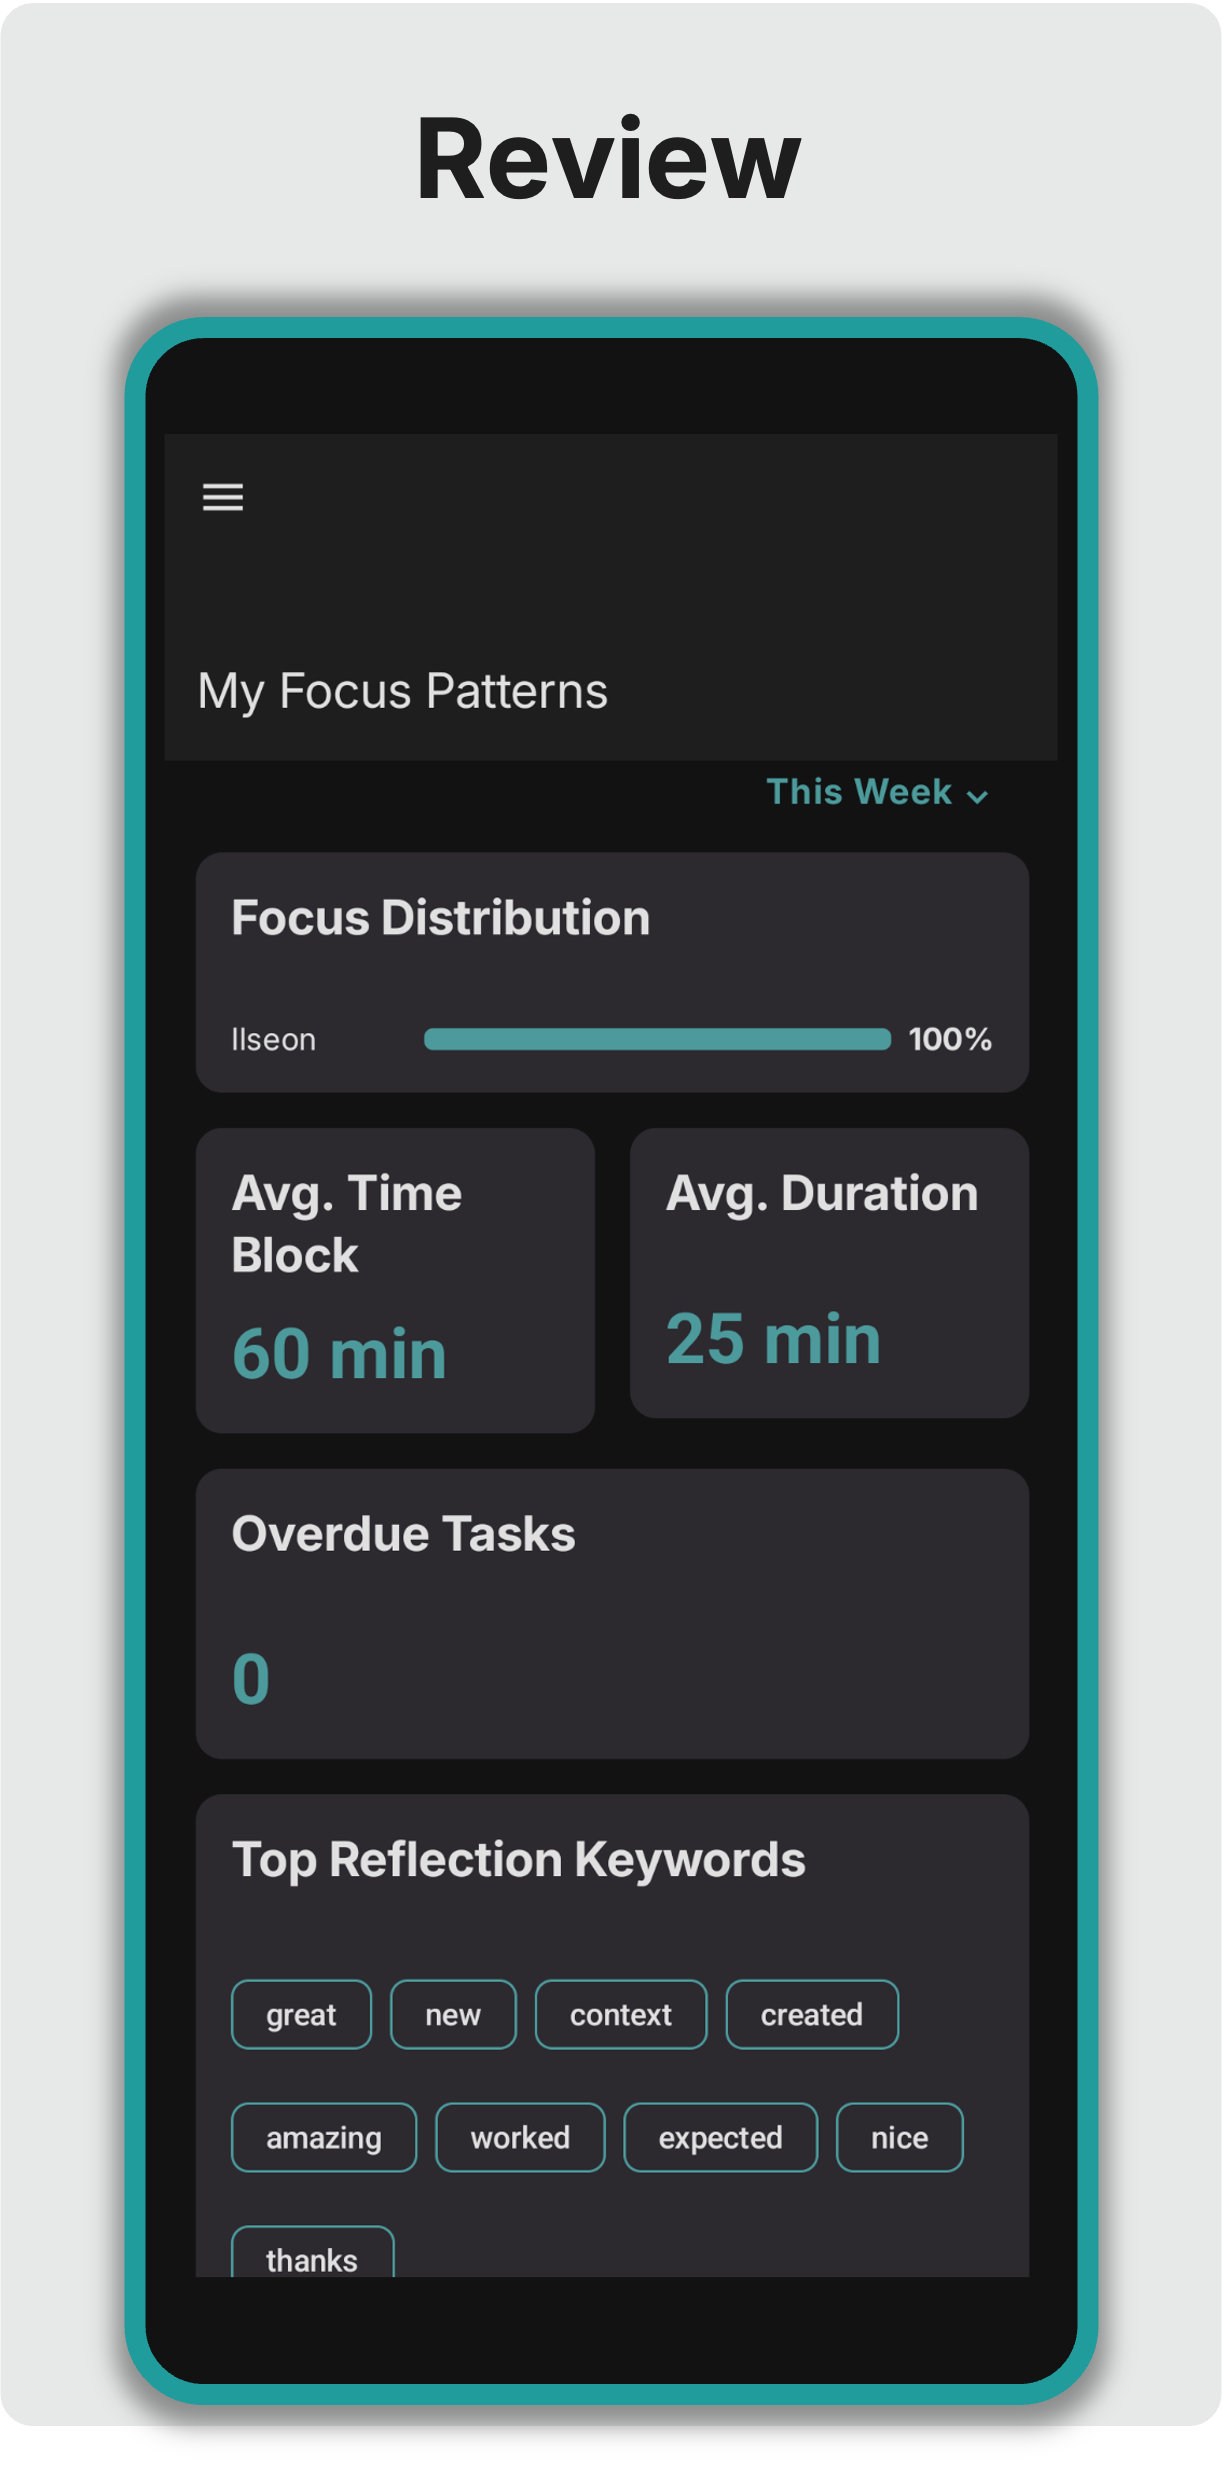
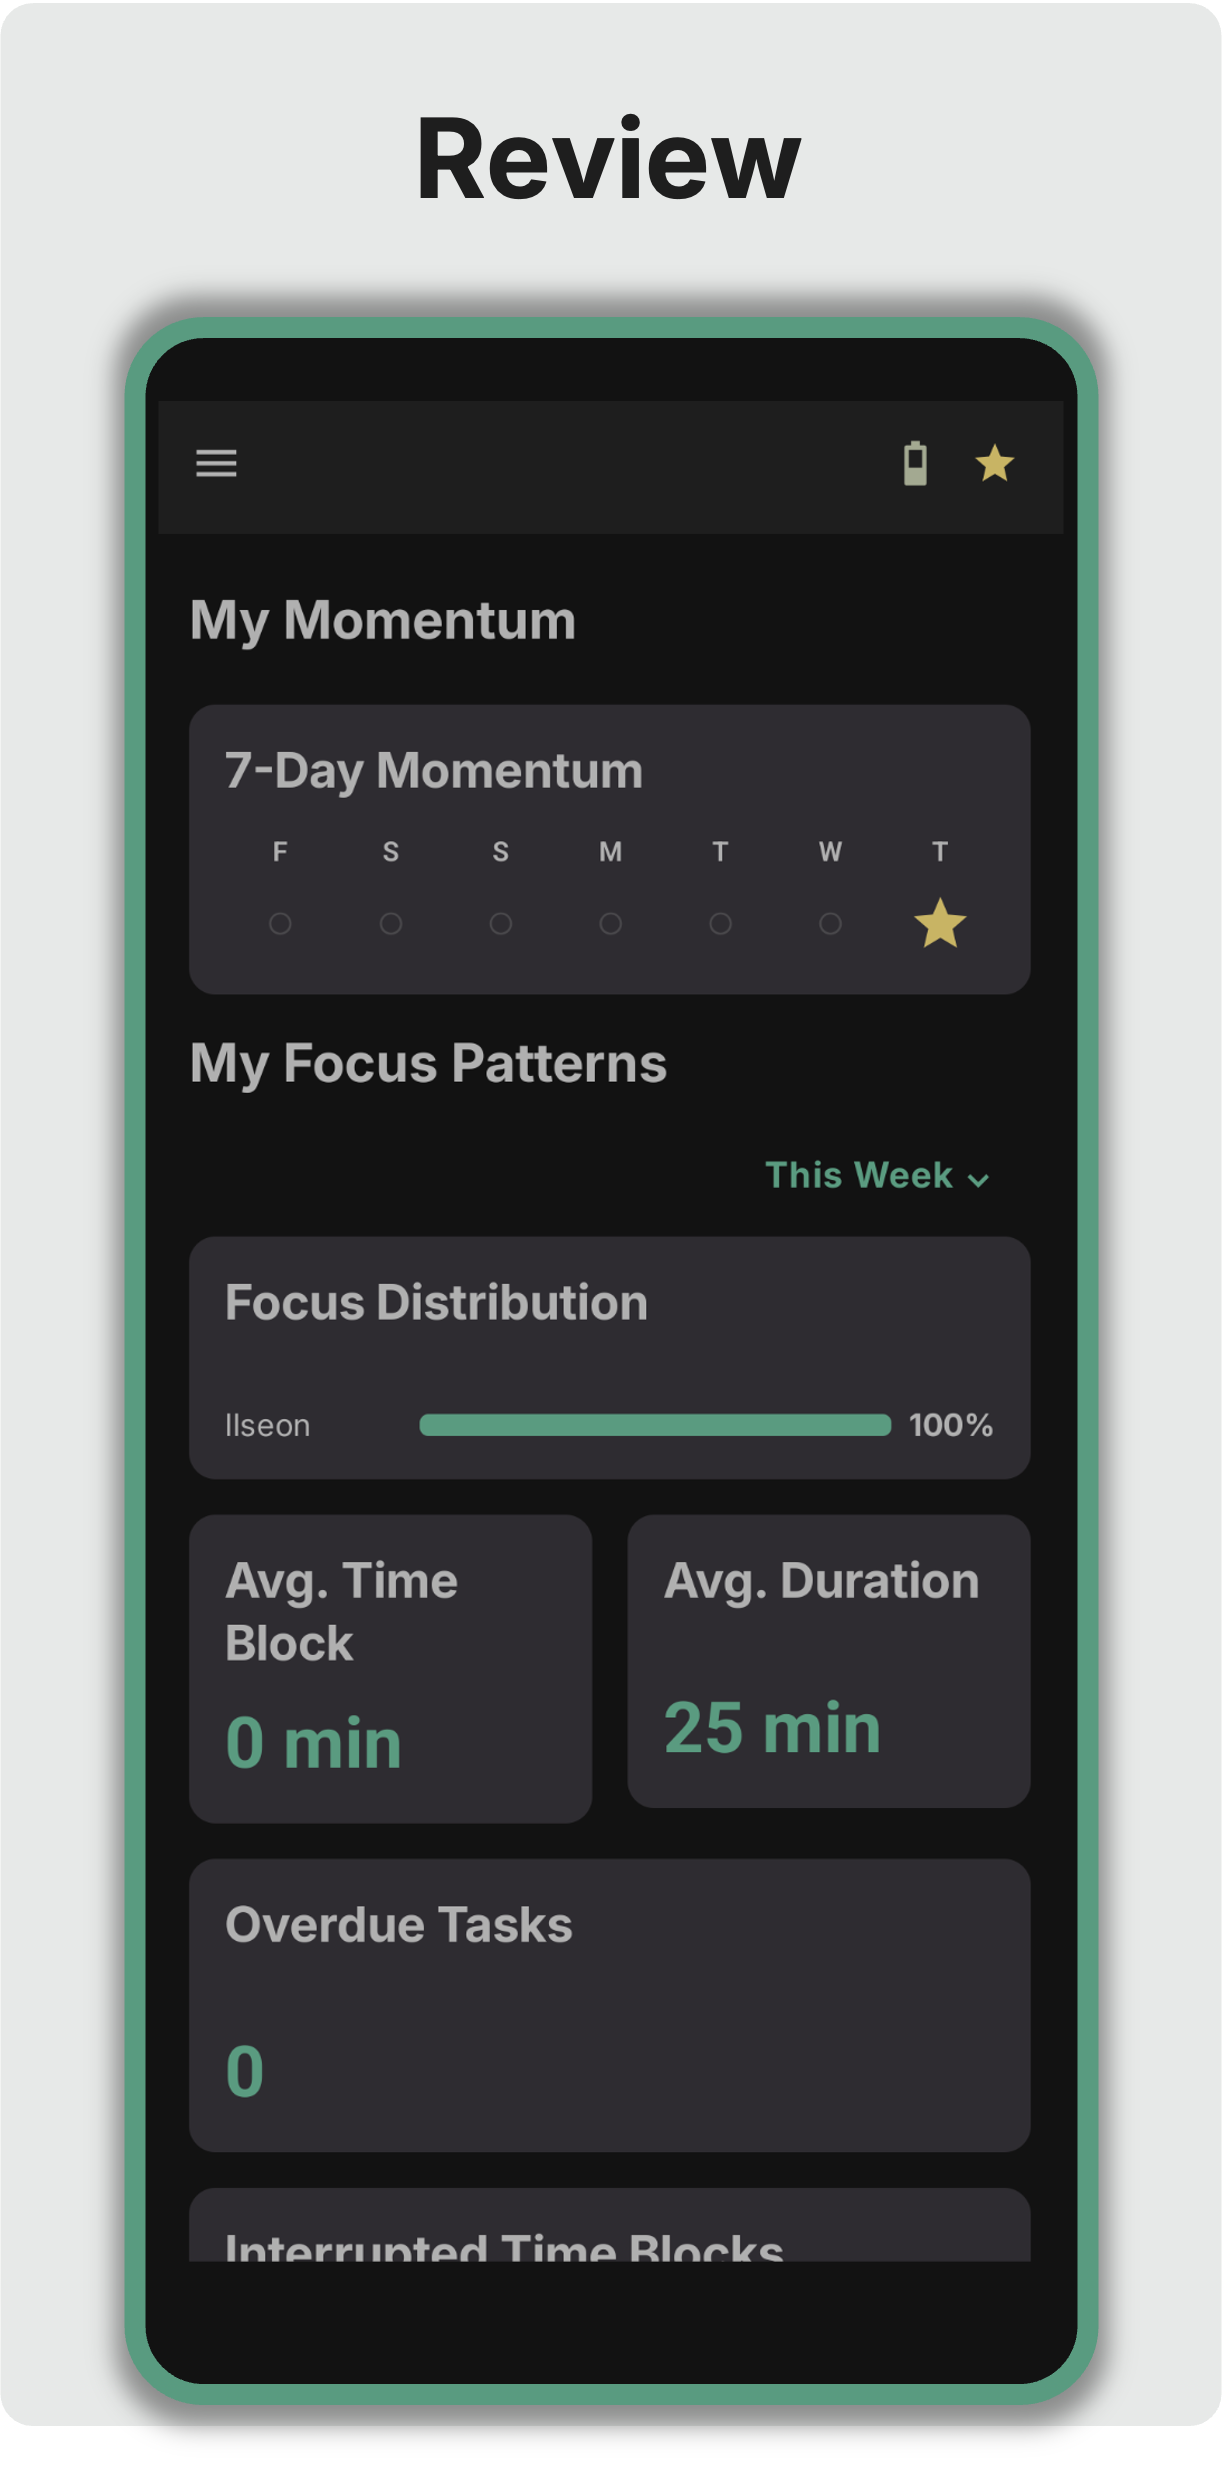
feat: update widget theme and new screenshots

Changed region(s): [[0.0932, 0.1249, 0.9011, 0.9996], [0.7457, 0.1874, 0.7768, 0.2187]]

diff --git a/README.md b/README.md
@@ -64,9 +64,9 @@ Ilseon is 100% **open source**, built for the community.
 
 ### Screenshots
 
-|                    Capture                     |                     Focus                      |                    Reflect                    |                     Review                      |                     Idea Inbox                      |                    Voice Inbox                     |
-|:----------------------------------------------:|:----------------------------------------------:|:---------------------------------------------:|:-----------------------------------------------:|:---------------------------------------------------:|:--------------------------------------------------:|
-| ![Capture](./images/ilseon-screenshot-PS1.png) | ![Focus](./images/ilseon-screenshot-PS2-1.png) | ![Review](./images/ilseon-screenshot-PS3.png) | ![Reflect](./images/ilseon-screenshot-PS4.png)  | ![Idea Inbox](./images/ilseon-screenshot-PS6.1.png) | ![Voice Inbox](./images/ilseon-screenshot-PS9.png) |
+|                    Capture                     |                    Focus                     |                    Reflect                    |                     Review                      |                    Idea Inbox                     |                    Voice Inbox                     |
+|:----------------------------------------------:|:--------------------------------------------:|:---------------------------------------------:|:-----------------------------------------------:|:-------------------------------------------------:|:--------------------------------------------------:|
+| ![Capture](./images/ilseon-screenshot-PS1.png) | ![Focus](./images/ilseon-screenshot-PS2.png) | ![Review](./images/ilseon-screenshot-PS3.png) | ![Reflect](./images/ilseon-screenshot-PS4.png)  | ![Idea Inbox](./images/ilseon-screenshot-PS8.png) | ![Voice Inbox](./images/ilseon-screenshot-PS9.png) |
 
 ### Source Code
 
